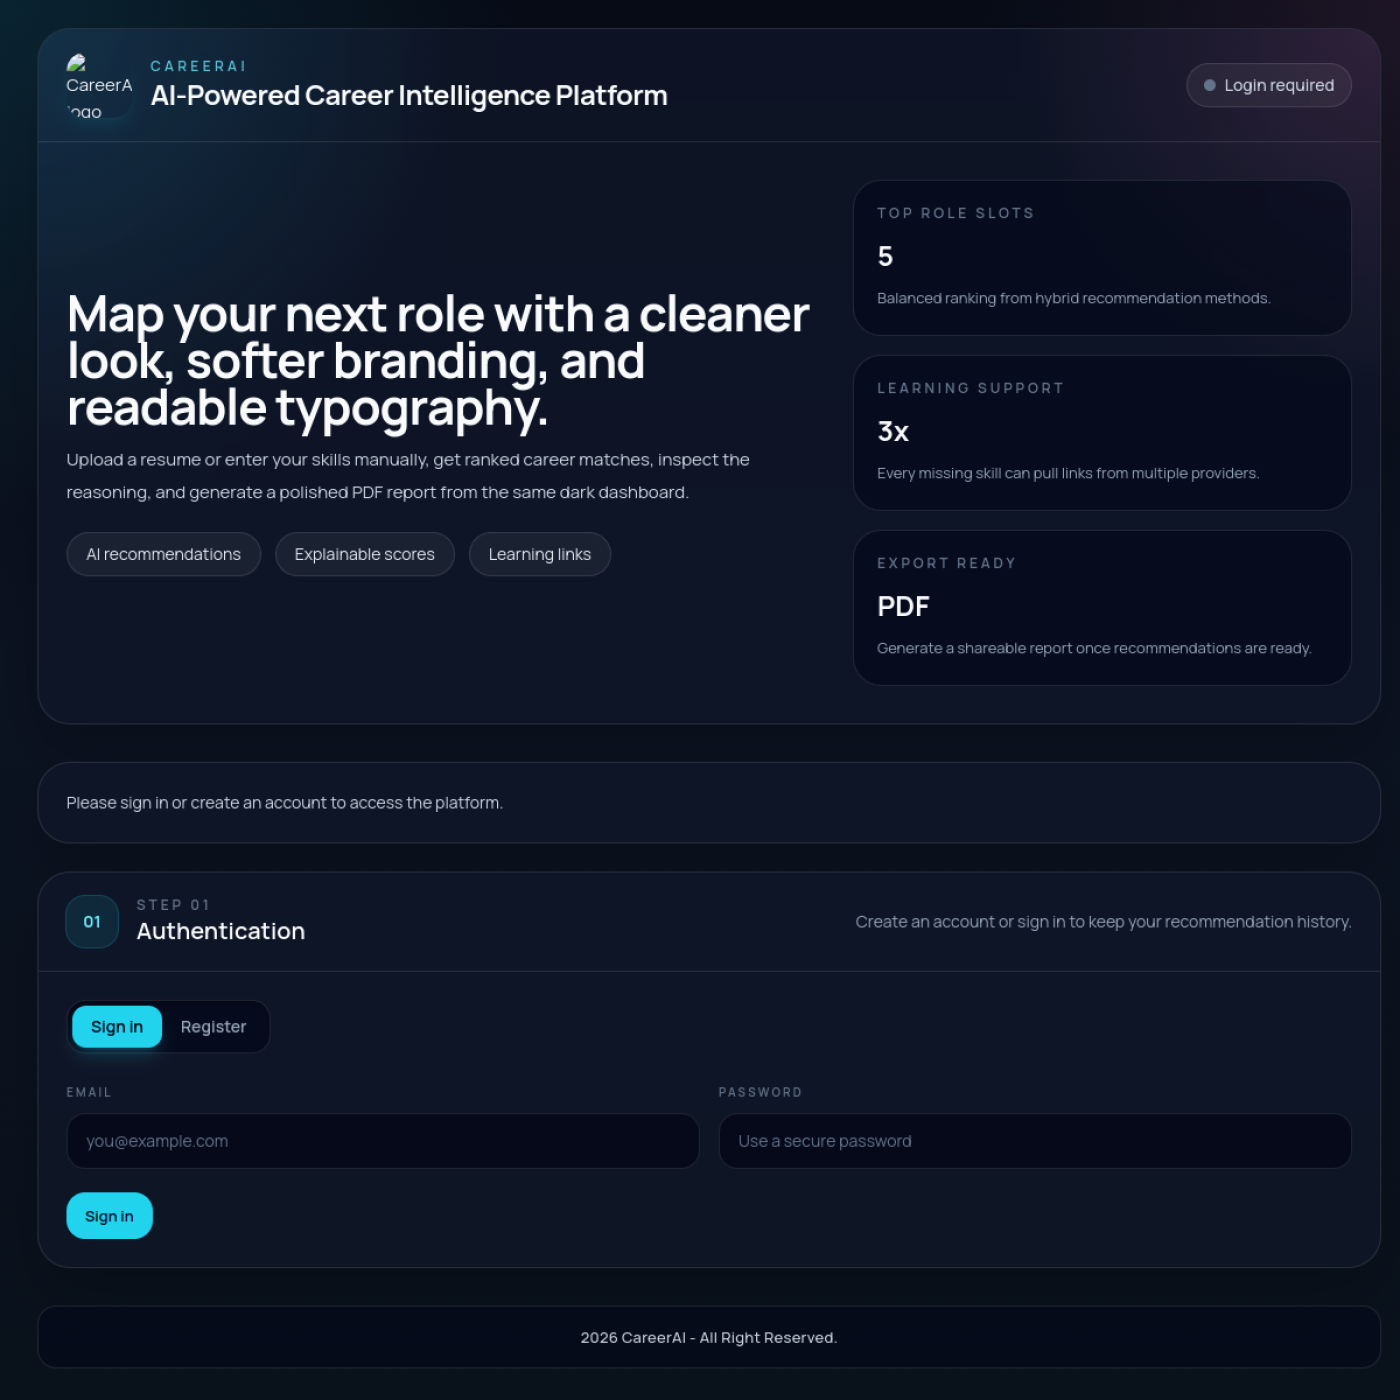
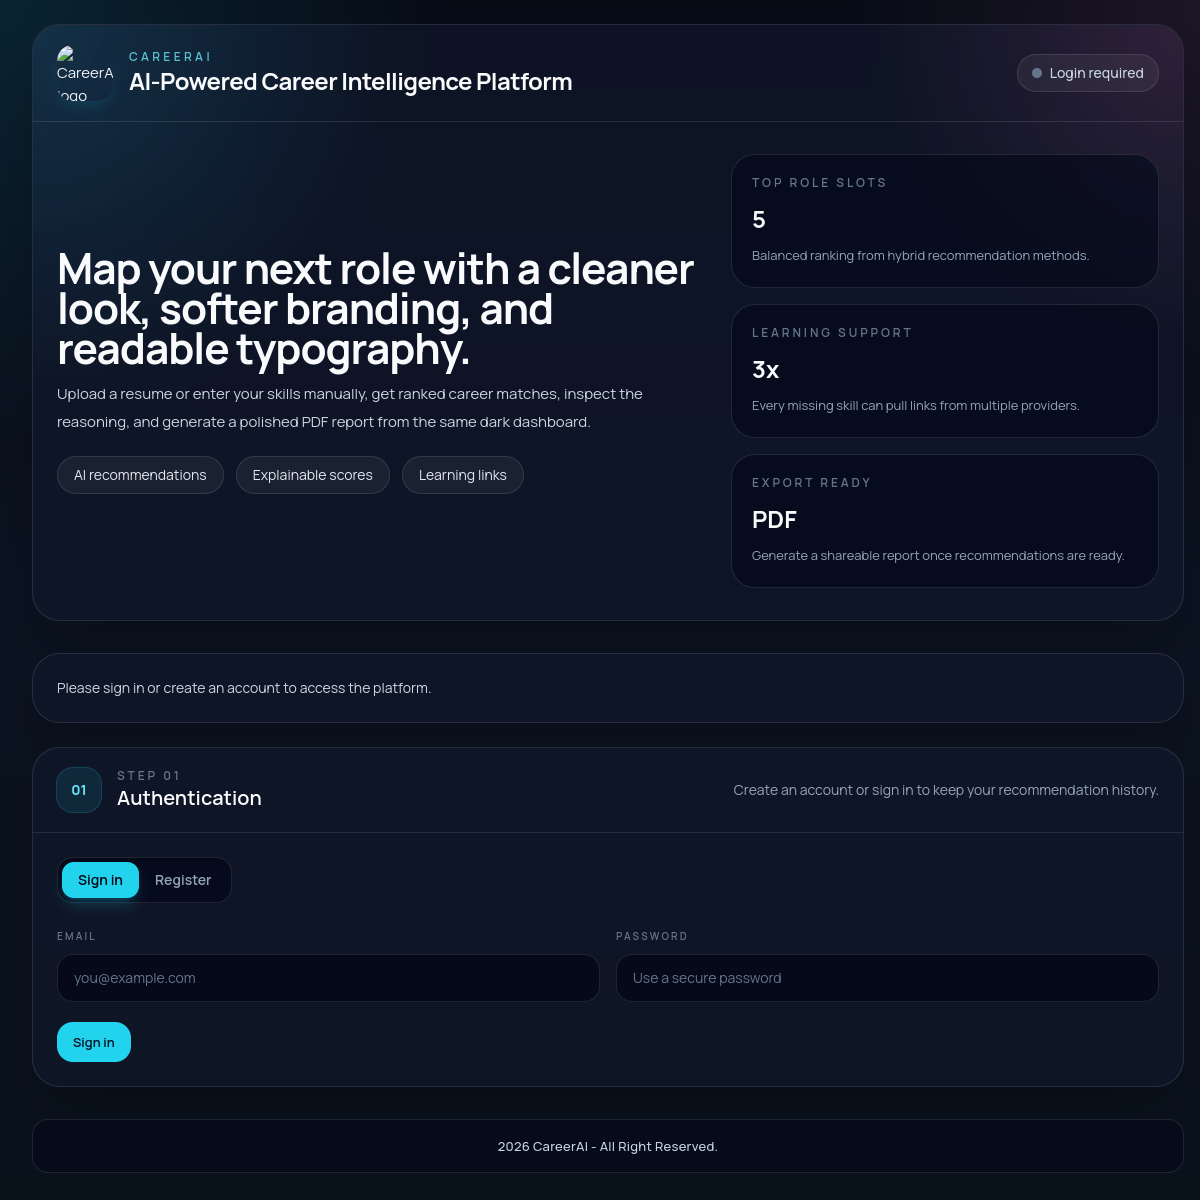
Refresh dashboard screenshot and bust README image cache

diff --git a/README.md b/README.md
@@ -17,7 +17,7 @@ An internship-ready full-stack platform that gives **deterministic**, skill-grou
 ## Screenshots
 
 ### Dashboard
-![CareerAI Dashboard](https://raw.githubusercontent.com/gandharr/ai-career-platform/main/docs/screenshots/dashboard-home.png)
+![CareerAI Dashboard](https://raw.githubusercontent.com/gandharr/ai-career-platform/main/docs/screenshots/dashboard-home.png?v=20260315)
 
 ### API Docs
 ![CareerAI API Docs](https://raw.githubusercontent.com/gandharr/ai-career-platform/main/docs/screenshots/api-docs.png)
